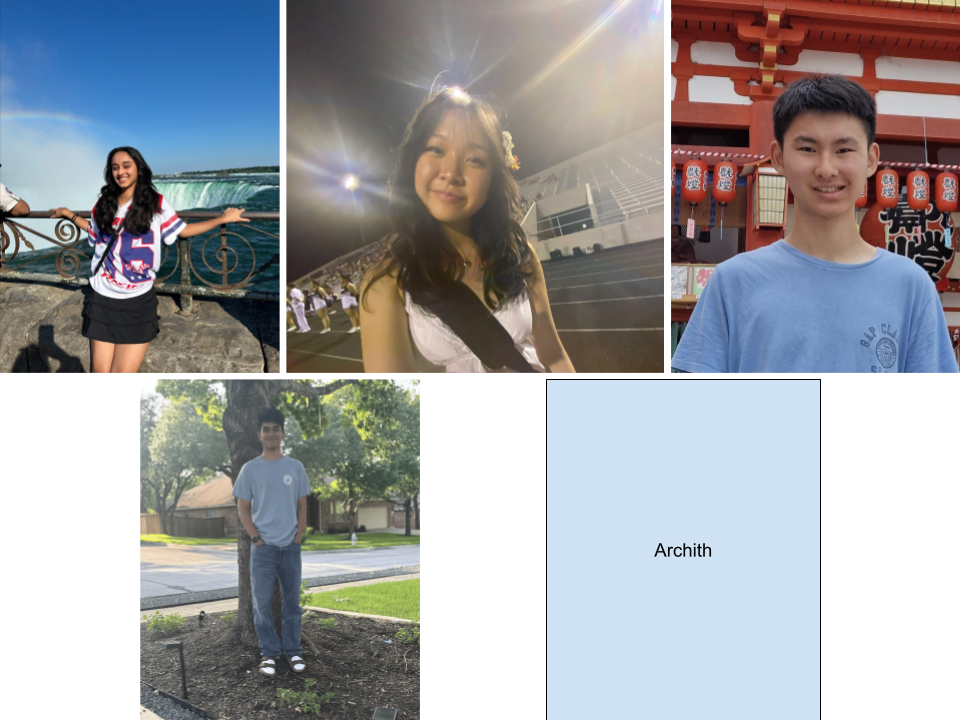
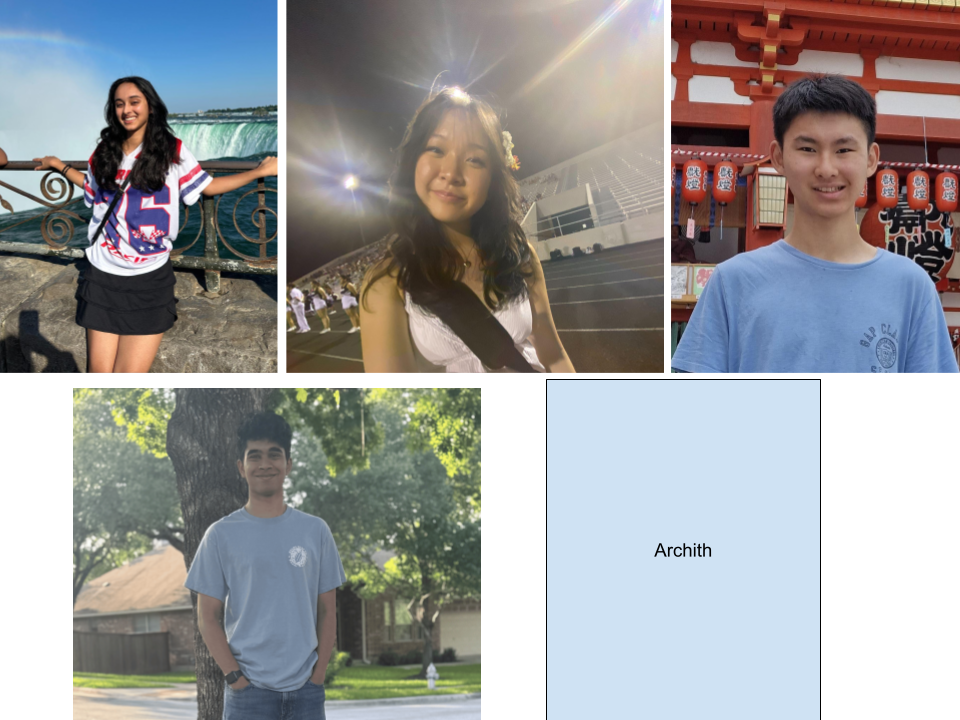
New captains image and fixing the gallery

Changed region(s): [[0.0, 0.0, 0.5, 1.0]]

diff --git a/gallery.html b/gallery.html
@@ -2,167 +2,88 @@
 layout: default
 title: LASA SciO - Gallery
 ---
-<link rel="stylesheet" href="assets/css/photoswipe.css"> 
-<link rel="stylesheet" href="assets/css/default-skin/default-skin.css"> 
-
-<script src="assets/js/photoswipe.min.js"></script> 
-<script src="assets/js/photoswipe-ui-default.min.js"></script> 
-
-<script type="text/javascript">
-    var folderId = "{{ site.data.gallery.folder_id }}";
-    var apiKey = "{{ site.data.gallery.api_key }}";
-    var firstPageUrl = "https://www.googleapis.com/drive/v2/files?maxResults=9999999&orderBy=createdDate%20desc&q=%27" + folderId + "%27+in+parents&key=" + apiKey;
-
-    var items = [];
-
-    // add to gallery's `items` list using Google Drive API v2
-    var addToGallery = function(url) {
-        // if there are no more pages to add, trigger scroll event to render first page of thumbnails
-        if (url.startsWith("undefined")) {
-            $(window).scroll();
-        } else {
-            // otherwise, retrieve JSON and register callback to add items when done
-            $.getJSON(url).done(function (data) {
-                $.each(data.items, function(i, item) {
-                    if (item.mimeType.startsWith("image")) {
-                        items.push({
-                            src: "https://drive.google.com/uc?id=" + item.id,
-                            msrc: item.thumbnailLink,
-                            w: item.imageMediaMetadata.width,
-                            h: item.imageMediaMetadata.height
-                        });
-                    }
-                });
-                // attempt to add next page to gallery at end of callback
-                addToGallery(data.nextLink + "&key=" + apiKey);
-            });
-        }
-    };
-
-    // load entire gallery
-    addToGallery(firstPageUrl);
-
-    // load next page of thumbnails when user scrolls down/zooms out far enough
-    var thumbnailIndex = 0;
-    var loadThumbnails = function() {
-        // check if loading icon is on screen
-        var rect = $("#loading-gif")[0].getBoundingClientRect();
-        var viewHeight = Math.max(document.documentElement.clientHeight, window.innerHeight);
-        if(!(rect.bottom < 0 || rect.top - viewHeight >= 0)) {
-            // block further events
-            $(window).off("scroll");
-            $(window).off("resize");
-            
-            // if there is another page, load it
-            if (thumbnailIndex < items.length) {
-                var end = Math.min(thumbnailIndex + 60, items.length);
-                $.each(items.slice(thumbnailIndex, end), function(i, item) {
-                    // create link tag with placeholder loading image as background
-                    var thumbnail = $("<a class='thumbnail' data-index=" + (i + thumbnailIndex) + 
-                        " style='background-image: url(/assets/img/placeholder.png)' href='" + item.msrc + "'></a>");
-                    $("#gallery").append(thumbnail);
-
-                    // begin loading actual thumbnail and set it as background when done
-                    $("<img/>").attr("src", item.msrc).on("load", function () {
-                        thumbnail.css("background-image", "url(" + $(this).attr("src") + ")");
-                        $(this).remove();
-                    });
-
-                    // bind open gallery event
-                    thumbnail.click(function (e) {
-                        e.preventDefault();
-                        new PhotoSwipe($(".pswp")[0], PhotoSwipeUI_Default, items,
-                            {index: parseInt($(this).attr("data-index")), history: false, preload: [1, 3]}).init();
-                    });
-                });
-                thumbnailIndex = end;
-                // re-bind scroll event
-                $(window).scroll(loadThumbnails);
-                $(window).resize(loadThumbnails);
-            } else {
-                $("#loading-gif").remove();
-            }
-        }
-    };
-
-    // bind scroll event
-    $(window).scroll(loadThumbnails);
-    $(window).resize(loadThumbnails);
+<link rel="stylesheet" href="assets/css/photoswipe.css">
+<link rel="stylesheet" href="assets/css/default-skin/default-skin.css">
+<script src="assets/js/photoswipe.min.js"></script>
+<script src="assets/js/photoswipe-ui-default.min.js"></script>
+<script>
+var folderId="{{ site.data.gallery.folder_id }}";
+var apiKey="{{ site.data.gallery.api_key }}";
+var firstPageUrl="https://www.googleapis.com/drive/v2/files?maxResults=9999999&orderBy=createdDate%20desc&q=%27"+folderId+"%27+in+parents&key="+apiKey;
+var items=[];
+function addToGallery(url){
+  if(!url||url.startsWith("undefined")){
+    renderThumbnails();
+    return;
+  }
+  $.getJSON(url).done(function(data){
+    $.each(data.items,function(i,item){
+      if(item.mimeType.indexOf("image")===0){
+        items.push({
+          src:"https://drive.google.com/uc?id="+item.id,
+          msrc:item.thumbnailLink,
+          w:item.imageMediaMetadata.width,
+          h:item.imageMediaMetadata.height
+        });
+      }
+    });
+    addToGallery(data.nextLink+"&key="+apiKey);
+  });
+}
+addToGallery(firstPageUrl);
+function renderThumbnails(){
+  $.each(items,function(idx,item){
+    var thumb=$("<a>")
+      .addClass("thumbnail")
+      .attr("data-index",idx)
+      .css("background-image","url("+item.msrc+")")
+      .attr("href",item.src);
+    $("#gallery").append(thumb);
+    thumb.click(function(e){
+      e.preventDefault();
+      new PhotoSwipe($(".pswp")[0],PhotoSwipeUI_Default,items,{
+        index:idx,history:false
+      }).init();
+    });
+  });
+}
 </script>
-
 <div class="center">
-    <h1 style="color: #0c2340">LASA SciO Gallery</h1>
+  <h1 style="color: #0c2340">LASA SciO Gallery</h1>
 </div>
 <br/>
-<div id="gallery">
-</div>
-
-<img id="loading-gif" src="/assets/img/loading.gif"/>
-
-<!-- Root element of PhotoSwipe. Must have class pswp. -->
+<div id="gallery"></div>
 <div class="pswp" tabindex="-1" role="dialog" aria-hidden="true">
-
-    <!-- Background of PhotoSwipe. 
-         It's a separate element as animating opacity is faster than rgba(). -->
-    <div class="pswp__bg"></div>
-
-    <!-- Slides wrapper with overflow:hidden. -->
-    <div class="pswp__scroll-wrap"> 
-
-        <!-- Container that holds slides. 
-            PhotoSwipe keeps only 3 of them in the DOM to save memory.
-            Don't modify these 3 pswp__item elements, data is added later on. -->
-        <div class="pswp__container">
-            <div class="pswp__item"></div>
-            <div class="pswp__item"></div>
-            <div class="pswp__item"></div>
-        </div>
-
-        <!-- Default (PhotoSwipeUI_Default) interface on top of sliding area. Can be changed. -->
-        <div class="pswp__ui pswp__ui--hidden">
-
-            <div class="pswp__top-bar">
-
-                <!--  Controls are self-explanatory. Order can be changed. -->
-
-                <div class="pswp__counter"></div>
-
-                <button class="pswp__button pswp__button--close" title="Close (Esc)"></button>
-
-                <button class="pswp__button pswp__button--share" title="Share"></button>
-
-                <button class="pswp__button pswp__button--fs" title="Toggle fullscreen"></button>
-
-                <button class="pswp__button pswp__button--zoom" title="Zoom in/out"></button>
-
-                <!-- Preloader demo http://codepen.io/dimsemenov/pen/yyBWoR -->
-                <!-- element will get class pswp__preloader: active when preloader is running -->
-                <div class="pswp__preloader">
-                    <div class="pswp__preloader__icn">
-                      <div class="pswp__preloader__cut">
-                        <div class="pswp__preloader__donut"></div>
-                      </div>
-                    </div>
-                </div>
-            </div>
-
-            <div class="pswp__share-modal pswp__share-modal--hidden pswp__single-tap">
-                <div class="pswp__share-tooltip"></div> 
-            </div>
-
-            <button class="pswp__button pswp__button--arrow--left" title="Previous (arrow left)">
-            </button>
-
-            <button class="pswp__button pswp__button--arrow--right" title="Next (arrow right)">
-            </button>
-
-            <div class="pswp__caption">
-                <div class="pswp__caption__center"></div>
-            </div>
-
-        </div>
-
+  <div class="pswp__bg"></div>
+  <div class="pswp__scroll-wrap">
+    <div class="pswp__container">
+      <div class="pswp__item"></div>
+      <div class="pswp__item"></div>
+      <div class="pswp__item"></div>
     </div>
-
+    <div class="pswp__ui pswp__ui--hidden">
+      <div class="pswp__top-bar">
+        <div class="pswp__counter"></div>
+        <button class="pswp__button pswp__button--close" title="Close (Esc)"></button>
+        <button class="pswp__button pswp__button--share" title="Share"></button>
+        <button class="pswp__button pswp__button--fs" title="Toggle fullscreen"></button>
+        <button class="pswp__button pswp__button--zoom" title="Zoom"></button>
+        <div class="pswp__preloader">
+          <div class="pswp__preloader__icn">
+            <div class="pswp__preloader__cut">
+              <div class="pswp__preloader__donut"></div>
+            </div>
+          </div>
+        </div>
+      </div>
+      <div class="pswp__share-modal pswp__share-modal--hidden pswp__single-tap">
+        <div class="pswp__share-tooltip"></div>
+      </div>
+      <button class="pswp__button pswp__button--arrow--left" title="Previous"></button>
+      <button class="pswp__button pswp__button--arrow--right" title="Next"></button>
+      <div class="pswp__caption">
+        <div class="pswp__caption__center"></div>
+      </div>
+    </div>
+  </div>
 </div>
-
